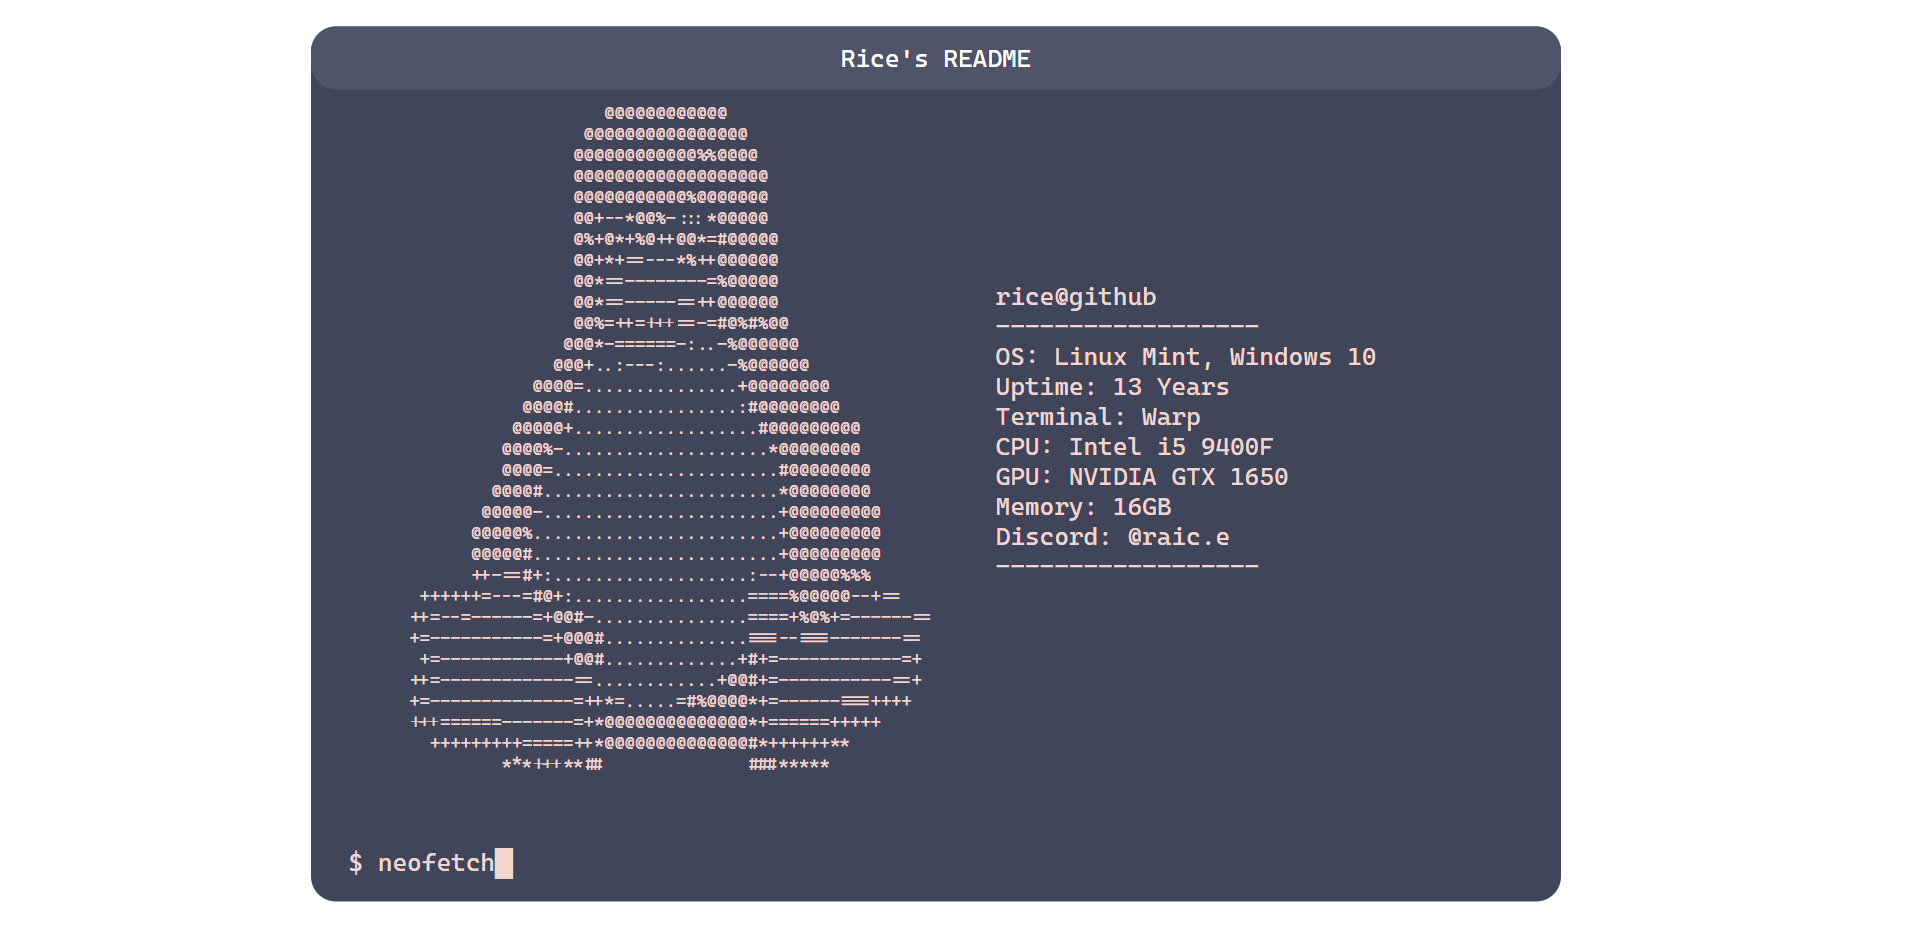
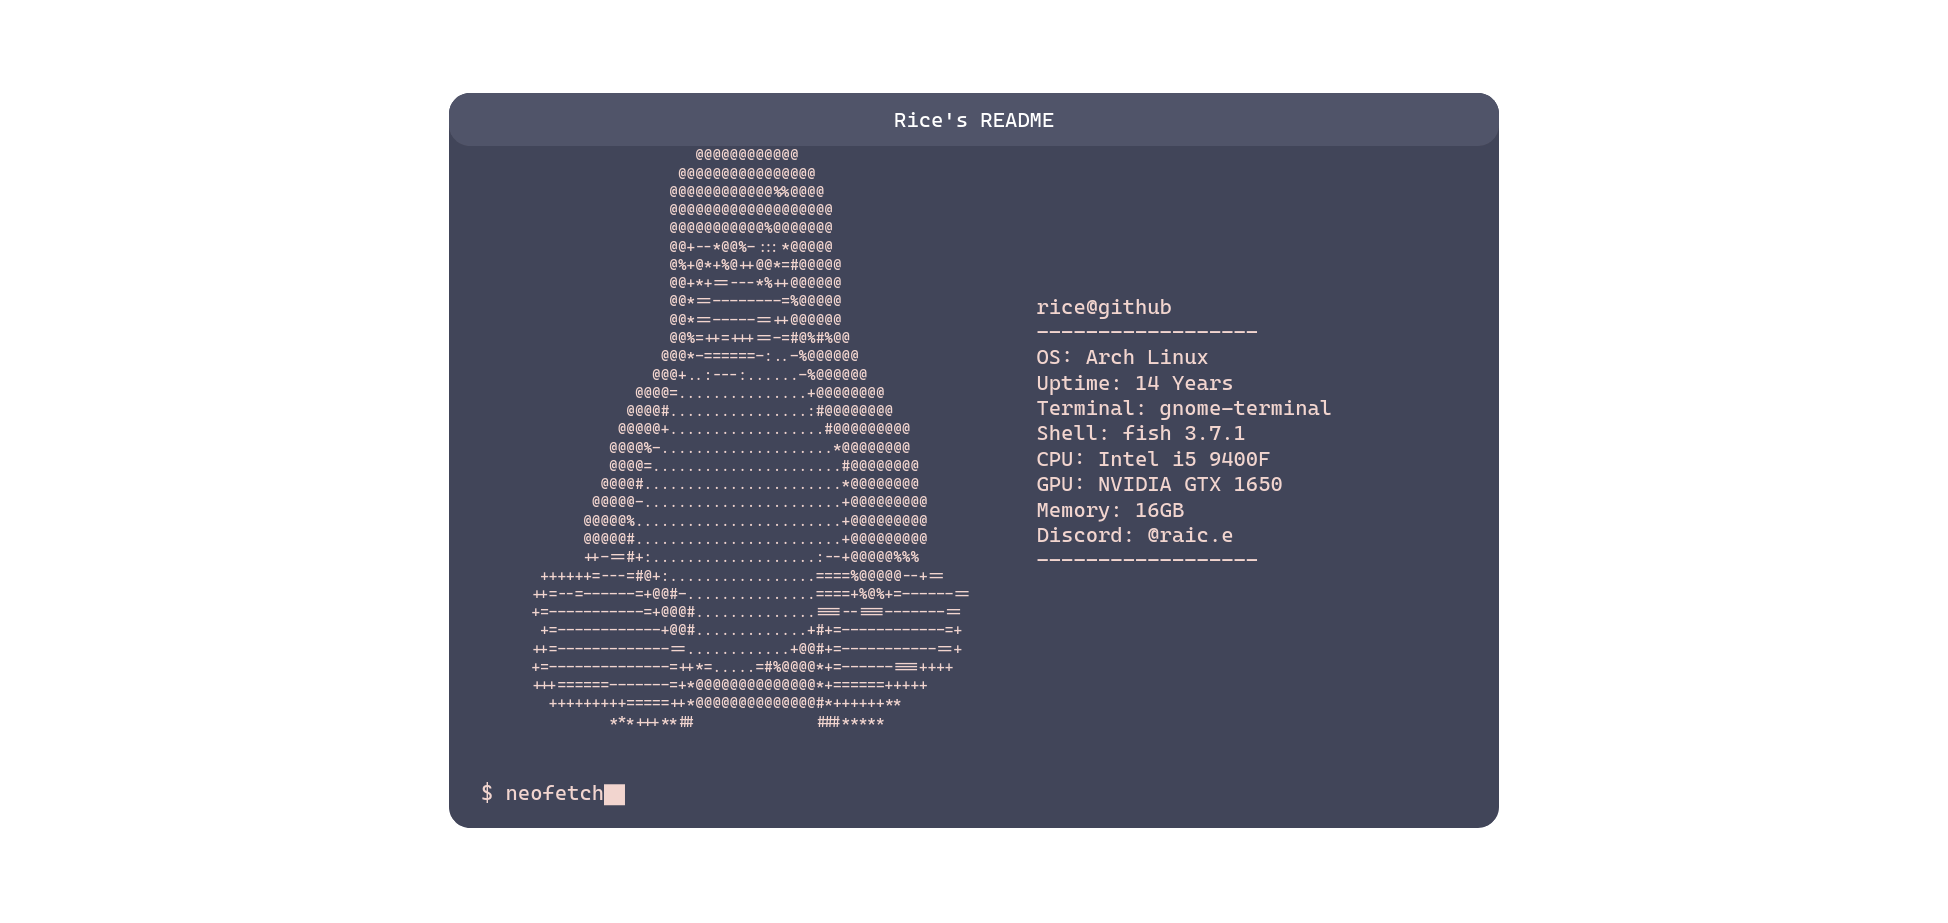
Add files via upload

Changed region(s): [[0.1543, 0.0303, 0.8332, 0.9707], [0.5246, 0.3034, 0.7406, 0.6371]]

diff --git a/index.html b/index.html
@@ -116,9 +116,10 @@ font-family: 'Cascadia';
         <pre id="info">
 rice@github
 ------------------
-OS: Linux Mint, Windows 10
-Uptime: 13 Years
-Terminal: Warp
+OS: Arch Linux
+Uptime: 14 Years
+Terminal: gnome-terminal
+Shell: fish 3.7.1
 CPU: Intel i5 9400F
 GPU: NVIDIA GTX 1650
 Memory: 16GB 
